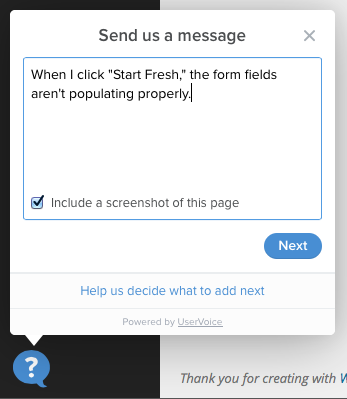
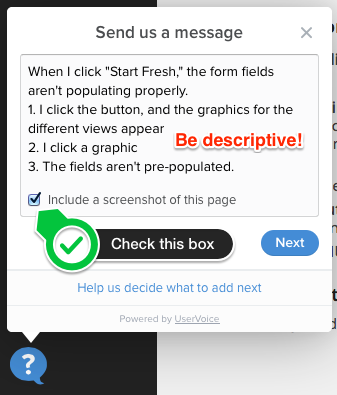
Add Getting Started link to GV menu
Also improve screenshot of a descriptive report.

diff --git a/includes/class-admin-welcome.php b/includes/class-admin-welcome.php
@@ -44,11 +44,26 @@ class GravityView_Welcome {
 	 * Register the Dashboard Pages which are later hidden but these pages
 	 * are used to render the Welcome pages.
 	 *
+	 * @group Beta
 	 * @access public
 	 * @since 1.0
 	 * @return void
 	 */
 	public function admin_menus() {
+
+		// Add help page to GravityView menu
+		add_submenu_page(
+			'edit.php?post_type=gravityview',
+			__('GravityView Beta: Getting Started', 'gravity-view'),
+			__('Getting Started', 'gravity-view'),
+			$this->minimum_capability,
+			'gv-about',
+			array( $this, 'about_screen' )
+		);
+
+		/*
+		// todo
+
 		// About Page
 		add_dashboard_page(
 			__( 'Welcome to GravityView', 'gravity-view' ),
@@ -65,7 +80,7 @@ class GravityView_Welcome {
 			$this->minimum_capability,
 			'gv-getting-started',
 			array( $this, 'getting_started_screen' )
-		);
+		);*/
 	}
 
 	/**
@@ -175,12 +190,10 @@ class GravityView_Welcome {
 						</ol>
 
 						<h4>Configure Mulitple Entry &amp; Single Entry Layouts</h4>
-						<p>You can configure how <strong>Multiple Entry</strong> and <strong>Single Entry</strong>. These can be configured by using the tabs under "View Configuration."</p>
-
-						<p class="clear:right;"><img src="<?php echo plugins_url( 'images/screenshots/add-field.png', GRAVITYVIEW_FILE ); ?>" alt="Add a field dialog box" style="max-width:50%; clear:right;" /></p>
+						<p><img src="<?php echo plugins_url( 'images/screenshots/add-field.png', GRAVITYVIEW_FILE ); ?>" alt="Add a field dialog box" style="max-width:50%; margin-left:10px;  margin-bottom:10px; clear:right;" />You can configure how <strong>Multiple Entry</strong> and <strong>Single Entry</strong>. These can be configured by using the tabs under "View Configuration."</p>
 
 						<ul>
-							<li>Click "+ Add Field" to add a field to a zone*</li>
+							<li>Click "+ Add Field" to add a field to a zone</li>
 							<li>Fields can be dragged and dropped to be re-arranged.</li>
 							<li>Click the <i class="dashicons dashicons-admin-generic"></i> gear icon on each field to configure the <strong>Field Settings</strong>:
 							<ul>
@@ -193,7 +206,7 @@ class GravityView_Welcome {
 						</ul>
 
 						<h4>Embed Views in Posts &amp; Pages</h4>
-						<p><img src="<?php echo plugins_url( 'images/screenshots/add-view-button.png', GRAVITYVIEW_FILE ); ?>" class="screenshot" style="max-width:50%; float:left; margin-right:1em; margin-bottom:1em;" height="44" width="103" />Unlike the Gravity Forms Directory plugin, views are stand-alone; they don&rsquo;t need to always be embedded, but you can still embed Views using the "Add View" button.</p>
+						<p><img src="<?php echo plugins_url( 'images/screenshots/add-view-button.png', GRAVITYVIEW_FILE ); ?>" class="screenshot" style="max-width:50%; float:left; margin-right:1em; margin-bottom:1em;" height="35" width="97" />Unlike the Gravity Forms Directory plugin, views are stand-alone; they don&rsquo;t need to always be embedded, but you can still embed Views using the "Add View" button.</p>
 
 					</div>
 				</div>
@@ -206,8 +219,10 @@ class GravityView_Welcome {
 
 					<div>
 						<h2>How to report issues</h2>
-
-						<p><img src="<?php echo plugins_url( 'images/screenshots/report-bug.png', GRAVITYVIEW_FILE ); ?>" class="screenshot" style="max-width:50%;" height="271" width="236" />If you find an issue, at the bottom of every GravityView page is a report widget (pictured below). Please click the "question mark" button and be as descriptive as possible. Checking the "Include a screenshot..." checkbox will help us fix your issue.</p>
+						<h4 style="font-weight:normal;">If you find a bug, it is most helpful if you <a href="https://gravityview.co/report-an-issue/">submit a report on the website</a>.</h4>
+						<p><img src="<?php echo plugins_url( 'images/screenshots/report-bug.png', GRAVITYVIEW_FILE ); ?>" class="screenshot" style="max-width:50%;" height="271" width="231" alt="Reporting bugs" />If you find an issue, you can <a href="https://gravityview.co/report-an-issue/">report it on the website</a>, or at the bottom of every GravityView page is a report widget (pictured).</p>
+						<p>Click the "question mark" button and be as <strong>descriptive as possible</strong>.</p>
+						<p><strong>Check the "Include a screenshot..." checkbox</strong> - this will help us fix your issue.</p>
 
 						<h4>Request Github access</h4>
 
@@ -217,7 +232,7 @@ class GravityView_Welcome {
 					<div class="last-feature">
 						<h2 class="clear">Thank you for your help.</h2>
 
-						<h4 class="clear">By helping discover bugs, suggest enhancements, and provide feedback:</h4>
+						<h4 style="font-weight:normal;" class="clear">By helping discover bugs, suggest enhancements, and provide feedback:</h4>
 
 						<ul>
 							<li><strong>50% off a GravityView license</strong> - everyone with Beta access will receive a discount</li>
@@ -364,13 +379,13 @@ class GravityView_Welcome {
 
 		$upgrade = get_option( 'gv_version_upgraded_from' );
 
-		wp_safe_redirect( admin_url( 'index.php?page=gv-about' ) ); exit;
+		wp_safe_redirect( admin_url( 'edit.php?post_type=gravityview&page=gv-about' ) ); exit;
 
 		// After Beta
 		if( ! $upgrade ) { // First time install
-			wp_safe_redirect( admin_url( 'index.php?page=gv-getting-started' ) ); exit;
+			wp_safe_redirect( admin_url( 'edit.php?post_type=gravityview&page=gv-getting-started' ) ); exit;
 		} else { // Update
-			wp_safe_redirect( admin_url( 'index.php?page=gv-about' ) ); exit;
+			wp_safe_redirect( admin_url( 'edit.php?post_type=gravityview&page=gv-about' ) ); exit;
 		}
 	}
 }
